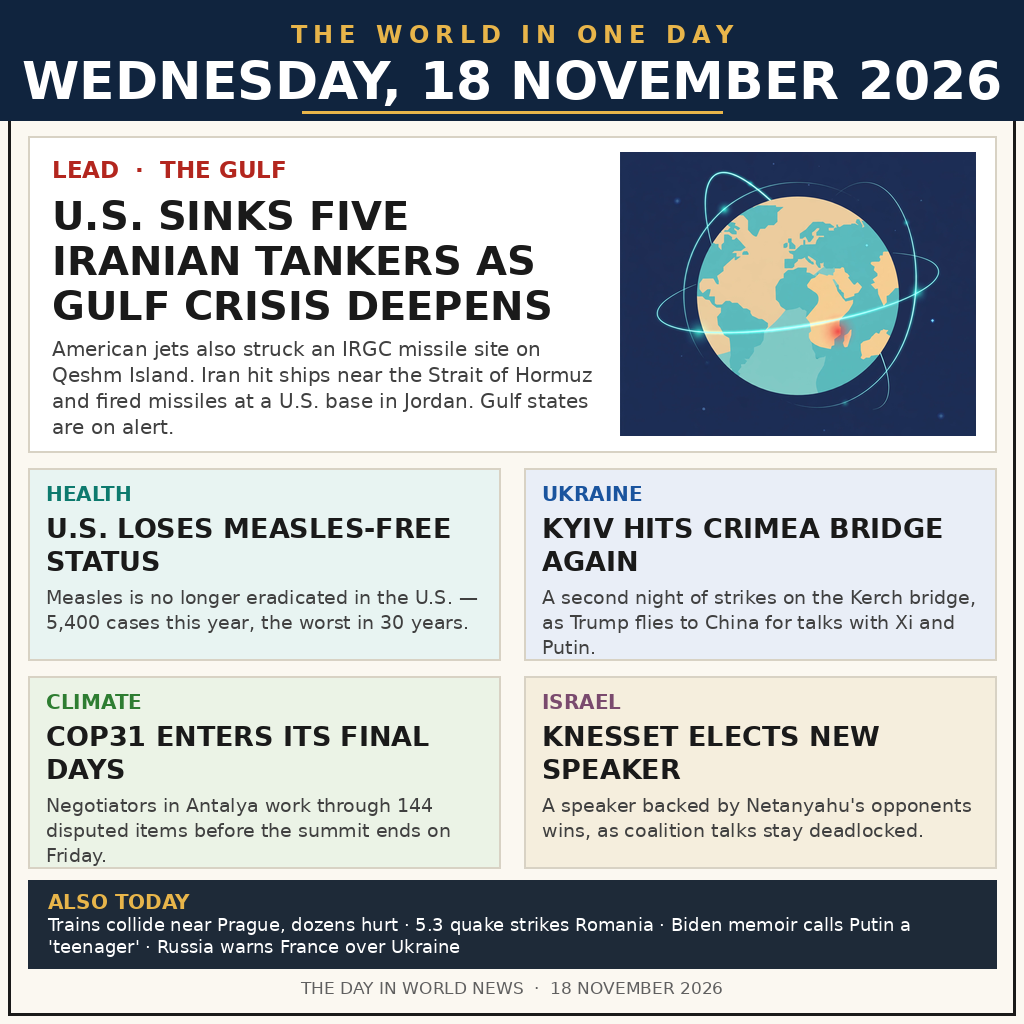
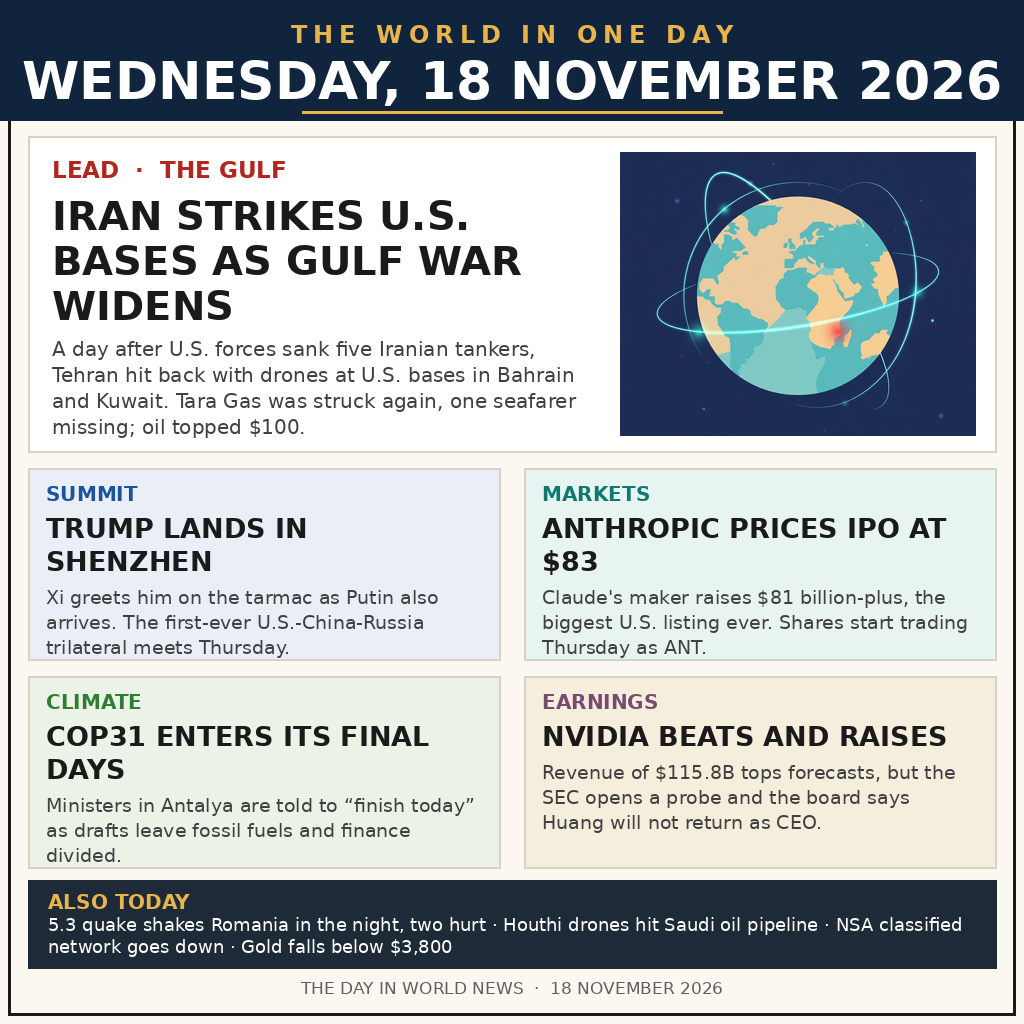
Refresh entry with the full 18 November 2026 news day (Round 2)
- Lead: Iran strikes U.S. bases in Bahrain and Kuwait as the Gulf
  war widens; Tara Gas struck again, oil tops $100
- New tiles: Trump lands in Shenzhen, Anthropic prices IPO at $83,
  COP31 final days, Nvidia beats and raises
- Ticker: Romania 5.3 quake, Houthi pipeline strike, NSA network
  outage, gold below $3,800
- Date-checked: stories first reported 17 Nov (measles, Kerch
  bridge, Knesset speaker, Prague crash, Biden memoir, Russia-France
  warning) removed
- Globe illustration now bundled as assets/globe.png (was /tmp)

diff --git a/compose.py b/compose.py
@@ -7,25 +7,34 @@ garbled AI text) around one AI-generated globe illustration (no text in
 it). The entry program itself (main.py) only copies the finished
 entry.png; this script never runs in the grader.
 
-Stories (researched 2026-11-18 ~05:20 UTC, all first reported on
-18 November 2026 unless noted):
-  LEAD  US sinks five Iranian tankers; jets strike an IRGC missile
-        site on Qeshm Island; Iran hits ships near the Strait of
-        Hormuz and fires missiles at a US base in Jordan.
-  HEALTH  US loses measles-free status: 5,400+ cases in 2026.
-  UKRAINE Kyiv strikes the Crimea (Kerch) bridge a second night;
-        Trump flies to China for talks with Xi and Putin.
-  CLIMATE COP31 in Antalya enters its final days, 144 items disputed.
-  ISRAEL  Knesset elects a speaker backed by Netanyahu's opponents.
-  TICKER Prague train crash; 5.3 quake in Romania; Biden memoir;
-        Russia warns France over Ukraine.
+Stories (refreshed 2026-11-19 ~01:00 UTC with the full 18 November 2026
+news day; every story below was first reported on 18 November 2026):
+  LEAD  A day after U.S. forces sank five Iranian tankers, Iran hits
+        back with drones at U.S. bases in Bahrain and Kuwait; the LPG
+        carrier Tara Gas is struck a second time, one seafarer missing;
+        oil tops $100 a barrel.
+  SUMMIT Trump lands in Shenzhen, greeted by Xi on the tarmac; Putin
+        also arrives. First-ever U.S.-China-Russia trilateral on Thursday.
+  MARKETS Anthropic prices its IPO at $83, raising $81B+ — the biggest
+        U.S. listing ever; shares start trading Thursday as ANT.
+  CLIMATE COP31 in Antalya enters its final days; ministers told to
+        "finish today" as drafts leave fossil fuels and finance divided.
+  EARNINGS Nvidia beats and raises ($115.8B revenue) but the SEC opens
+        a probe and the board says Jensen Huang will not return as CEO.
+  TICKER 5.3 quake in Romania; Houthi drones hit a Saudi oil pipeline;
+        NSA classified network goes down; gold falls below $3,800.
+
+Dropped from Round 1 after date checks: measles (PAHO announced
+17 Nov), Kerch bridge collapse (overnight 16-17 Nov), Knesset speaker
+(vote 17 Nov), Prague train crash (morning of 17 Nov), Biden memoir
+(released 17 Nov), Russia warns France (Lavrov spoke 17 Nov).
 """
 
 import os
 from PIL import Image, ImageDraw, ImageFont
 
 HERE = os.path.dirname(os.path.abspath(__file__))
-GLOBE = "/tmp/newsimg/media-generation-globe-hero-0-5a916f3e-8133-4f1b-a6f8-32d5abd7de55.png"
+GLOBE = os.path.join(HERE, "assets", "globe.png")
 OUT = os.path.join(HERE, "entry.png")
 
 W, H = 1024, 1024
@@ -118,37 +127,37 @@ def main():
     img.paste(globe, (620, 152))
 
     d.text((52, 156), "LEAD  ·  THE GULF", font=font(23, True), fill=RED)
-    head_fnt = fit_font(d, "U.S. SINKS FIVE IRANIAN TANKERS AS GULF CRISIS DEEPENS",
+    head_fnt = fit_font(d, "IRAN STRIKES U.S. BASES AS GULF WAR WIDENS",
                         548, 3, 40)
     y = draw_lines(d, 52, 192,
-                   wrap(d, "U.S. SINKS FIVE IRANIAN TANKERS AS GULF CRISIS DEEPENS",
+                   wrap(d, "IRAN STRIKES U.S. BASES AS GULF WAR WIDENS",
                         head_fnt, 548),
                    head_fnt, INK, 45)
-    summary = ("American jets also struck an IRGC missile site on Qeshm "
-               "Island. Iran hit ships near the Strait of Hormuz and "
-               "fired missiles at a U.S. base in Jordan. Gulf states "
-               "are on alert.")
+    summary = ("A day after U.S. forces sank five Iranian tankers, "
+               "Tehran hit back with drones at U.S. bases in "
+               "Bahrain and Kuwait. Tara Gas was struck again, one "
+               "seafarer missing; oil topped $100.")
     draw_lines(d, 52, y + 10, wrap(d, summary, font(20), 548),
                font(20), (64, 64, 64), 26)
 
     # ---- Four story tiles ----
     tiles = [
-        ("HEALTH", (13, 122, 110), (232, 244, 242),
-         "U.S. LOSES MEASLES-FREE STATUS",
-         "Measles is no longer eradicated in the U.S. — 5,400 cases "
-         "this year, the worst in 30 years."),
-        ("UKRAINE", (26, 84, 158), (233, 238, 247),
-         "KYIV HITS CRIMEA BRIDGE AGAIN",
-         "A second night of strikes on the Kerch bridge, as Trump "
-         "flies to China for talks with Xi and Putin."),
+        ("SUMMIT", (26, 84, 158), (233, 238, 247),
+         "TRUMP LANDS IN SHENZHEN",
+         "Xi greets him on the tarmac as Putin also arrives. The "
+         "first-ever U.S.-China-Russia trilateral meets Thursday."),
+        ("MARKETS", (13, 122, 110), (232, 244, 242),
+         "ANTHROPIC PRICES IPO AT $83",
+         "Claude's maker raises $81 billion-plus, the biggest U.S. "
+         "listing ever. Shares start trading Thursday as ANT."),
         ("CLIMATE", (46, 125, 50), (235, 243, 230),
          "COP31 ENTERS ITS FINAL DAYS",
-         "Negotiators in Antalya work through 144 disputed items "
-         "before the summit ends on Friday."),
-        ("ISRAEL", (122, 74, 110), (245, 238, 221),
-         "KNESSET ELECTS NEW SPEAKER",
-         "A speaker backed by Netanyahu's opponents wins, as "
-         "coalition talks stay deadlocked."),
+         "Ministers in Antalya are told to \u201cfinish today\u201d as "
+         "drafts leave fossil fuels and finance divided."),
+        ("EARNINGS", (122, 74, 110), (245, 238, 221),
+         "NVIDIA BEATS AND RAISES",
+         "Revenue of $115.8B tops forecasts, but the SEC opens a "
+         "probe and the board says Huang will not return as CEO."),
     ]
     tile_w, tile_h = 472, 192
     positions = [(28, 468), (524, 468), (28, 676), (524, 676)]
@@ -166,9 +175,10 @@ def main():
     # ---- Ticker ----
     d.rectangle([28, 880, 996, 968], fill=DARKBAND)
     d.text((48, 890), "ALSO TODAY", font=font(20, True), fill=GOLD)
-    ticker = ("Trains collide near Prague, dozens hurt  ·  5.3 quake "
-              "strikes Romania  ·  Biden memoir calls Putin a "
-              "'teenager'  ·  Russia warns France over Ukraine")
+    ticker = ("5.3 quake shakes Romania in the night, two hurt  ·  "
+              "Houthi drones hit Saudi oil pipeline  ·  NSA "
+              "classified network goes down  ·  Gold falls below "
+              "$3,800")
     draw_lines(d, 48, 914, wrap(d, ticker, font(18), 920),
                font(18), (255, 255, 255), 22)
 

diff --git a/README.md b/README.md
@@ -4,7 +4,9 @@
 [![rank](https://make.fun/badge/news-image-20261118/StarsN/news-image-20261118/rank.svg)](https://make.fun/bounty/news-image-20261118/leaderboard?utm_source=github&utm_medium=readme&utm_campaign=news-image-20261118)
 [![reward](https://make.fun/badge/news-image-20261118/StarsN/news-image-20261118/reward.svg)](https://make.fun/bounty/news-image-20261118?utm_source=github&utm_medium=readme&utm_campaign=news-image-20261118)
 
-A program that writes one image summing up the world news of Wednesday 18 November 2026 — the U.S.–Iran escalation in the Gulf, America losing measles-free status, Ukraine's Crimea bridge strikes, COP31's final days, and Israel's new Knesset speaker — to /output/entry.png. The image was composed for this bounty (a newspaper front page drawn with PIL around an AI-generated globe illustration) and is copied byte-for-byte by main.py; compose.py is the build-time script that drew it.
+A program that writes one image summing up the world news of Wednesday 18 November 2026 — Iran striking U.S. bases in Bahrain and Kuwait as the Gulf war widens, Trump landing in Shenzhen for the first-ever U.S.–China–Russia trilateral, Anthropic pricing its record IPO at $83, COP31's final days in Antalya, and Nvidia beating forecasts as the SEC opens a probe — to /output/entry.png. The image was composed for this bounty (a newspaper front page drawn with PIL around an AI-generated globe illustration) and is copied byte-for-byte by main.py; compose.py is the build-time script that drew it.
+
+Round 2 (2026-11-19): refreshed with the full 18 November news day. Stories first reported on 17 November (measles status, Kerch bridge, Knesset speaker, Prague crash, Biden memoir, Russia–France warning) were removed after date checks.
 
 ## Run it
 
